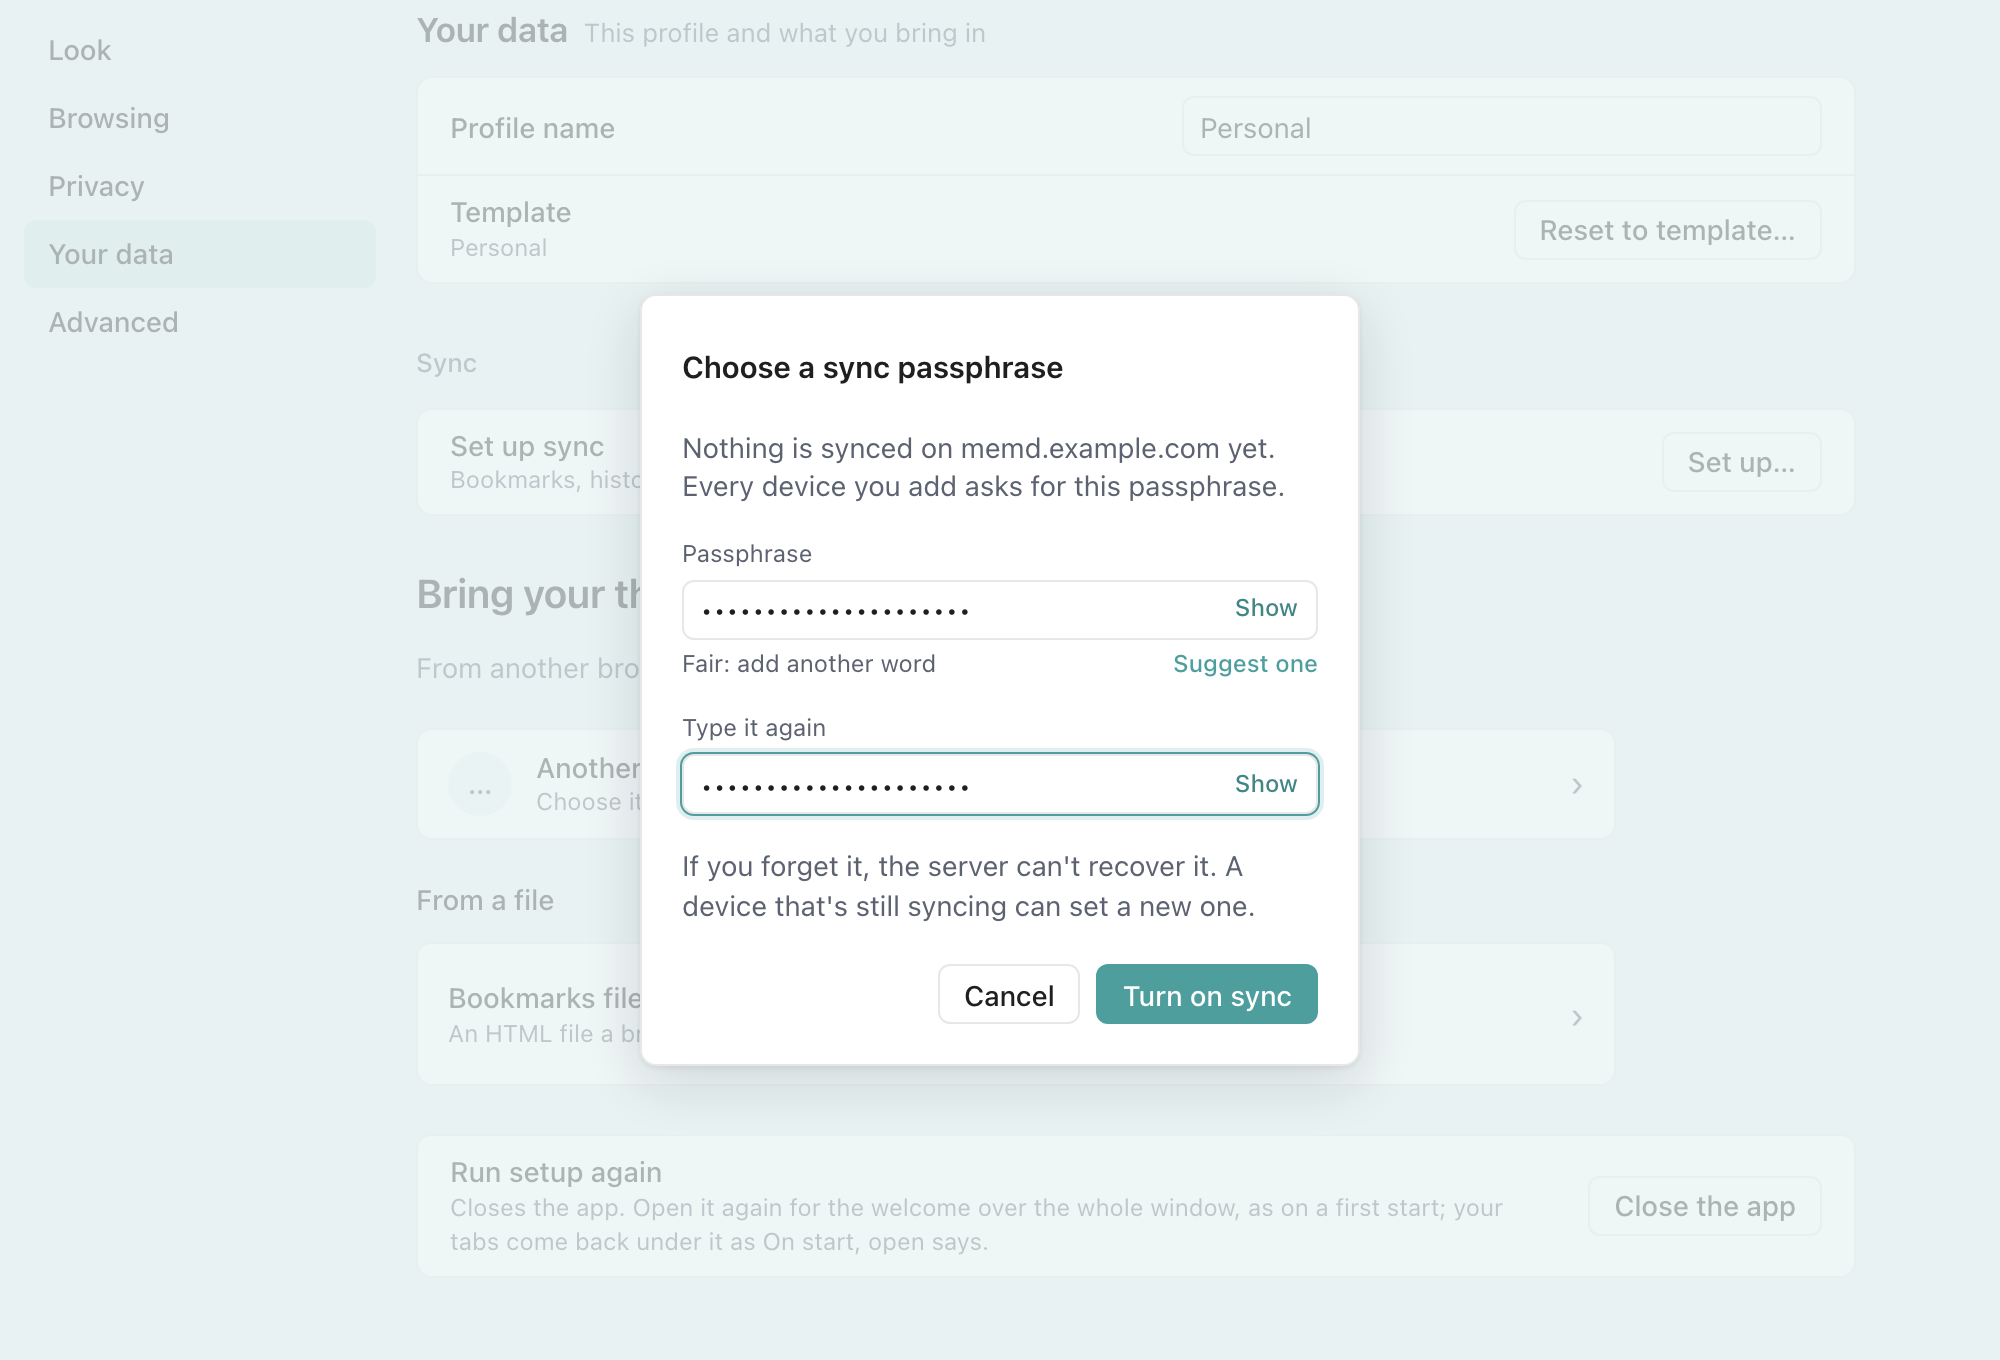
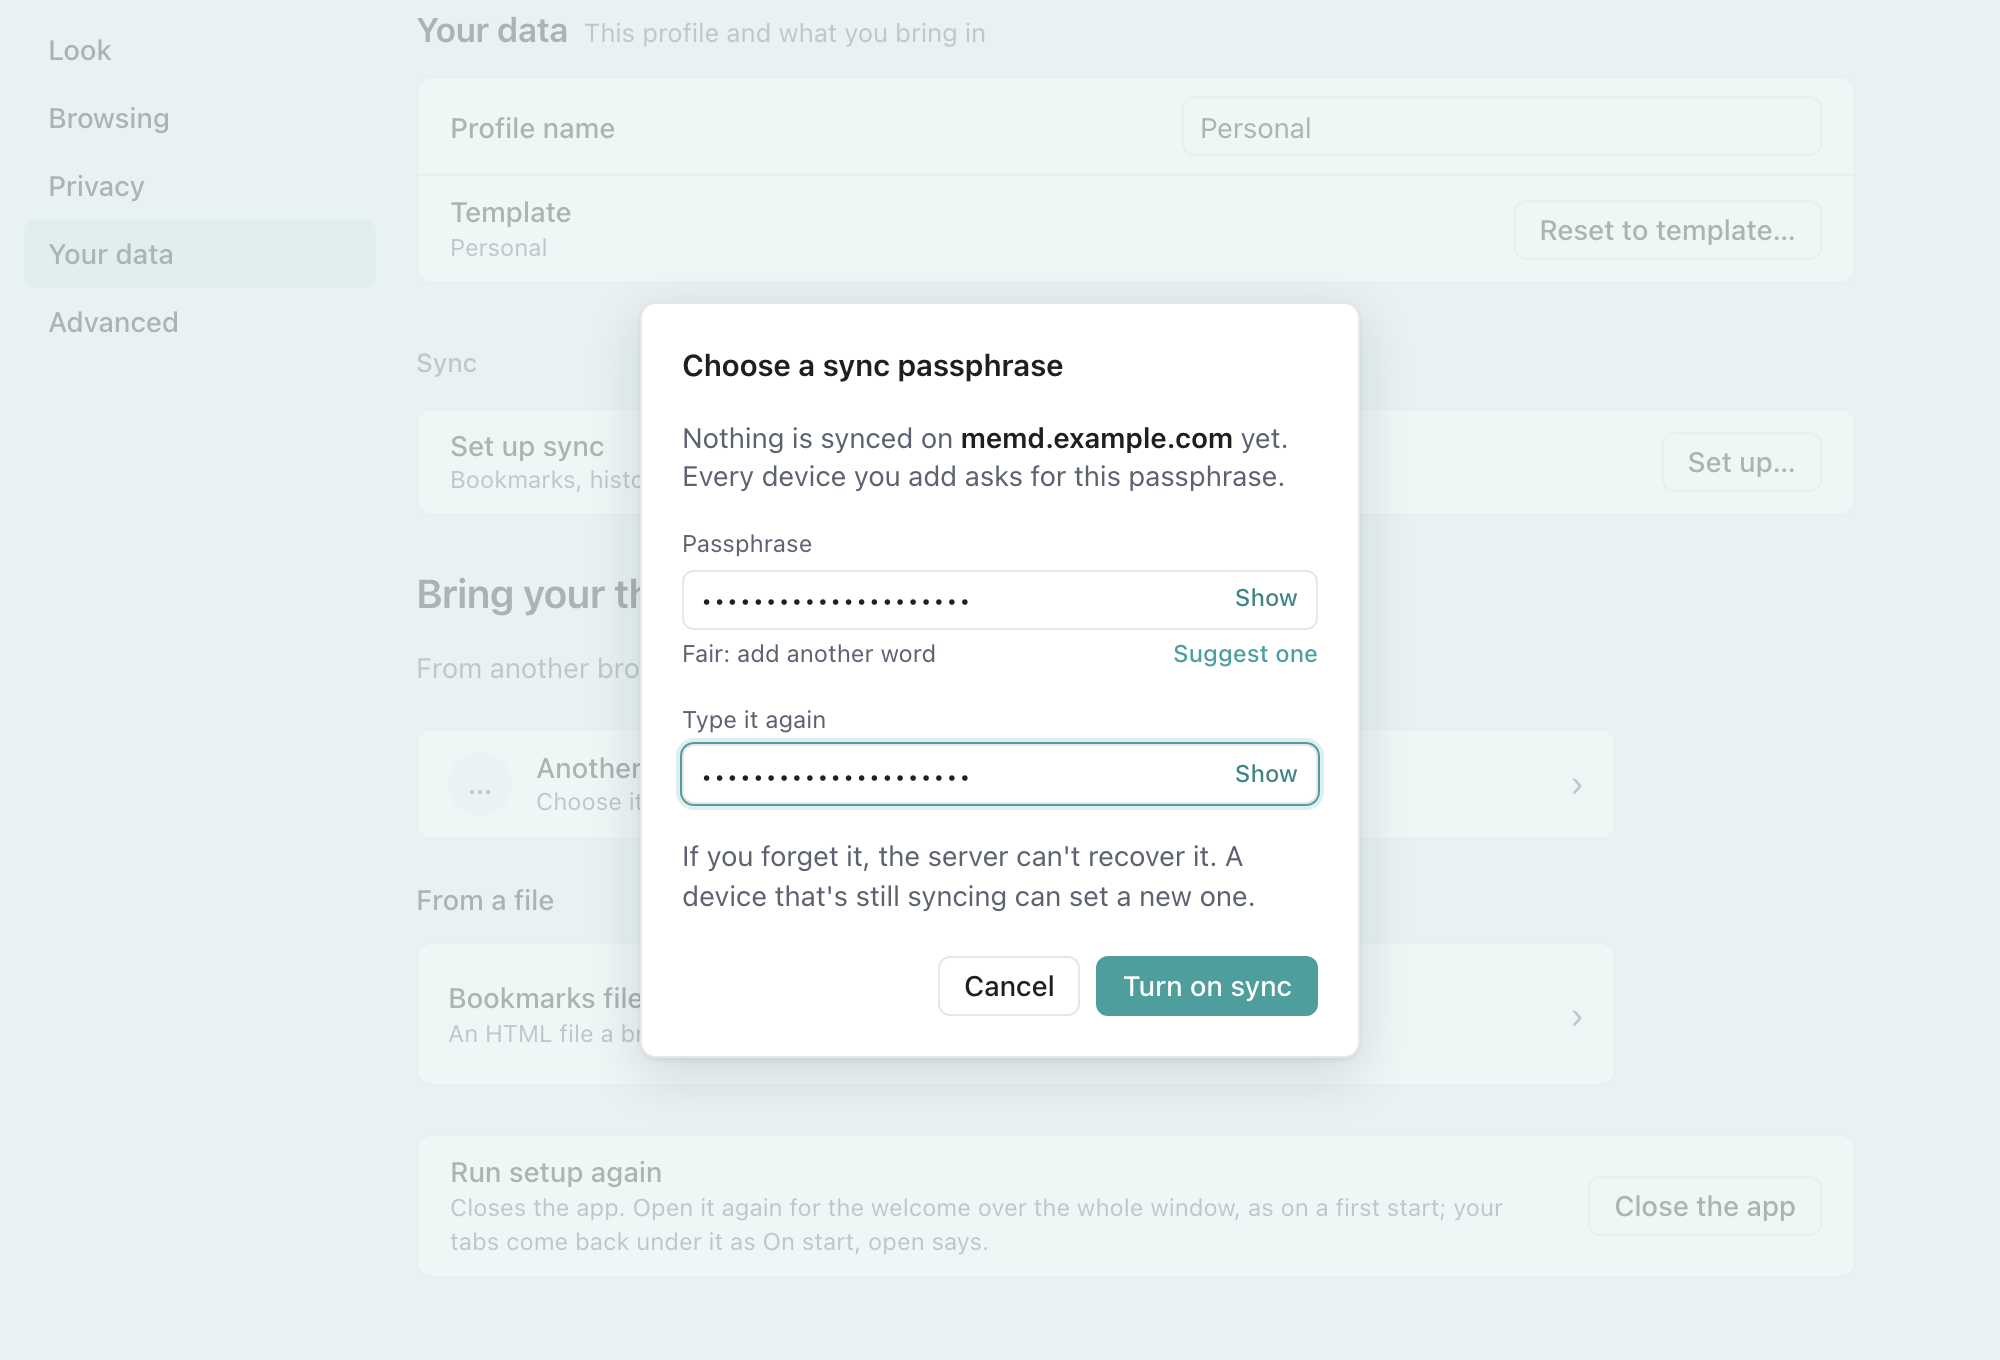
A Dialog keeps its title and buttons in sight when it has little room, as over a phone's keyboard, and only its body scrolls between them: on Android 17 the keyboard hid the sync passphrase's Turn on sync. The sync Dialog names its server's host in bold in its words, as its title does

diff --git a/shell/src/ui/Dialog.vue b/shell/src/ui/Dialog.vue
@@ -5,7 +5,8 @@ import { pushEscape } from './escape.js';
 // A modal dialog, the one pattern for every question: 360px, a 15px title, the body, and
 // the buttons at the bottom right, which the caller puts in the buttons slot. A title with
 // a word set apart, a host in bold, is drawn in the title slot, title still naming the
-// dialog. Mount it with v-if to open it. Escape and the backdrop's own cancel emit close; when it goes,
+// dialog. The title and the buttons stay put, and the body scrolls between them when the
+// dialog is taller than its room, as over a phone's keyboard. Mount it with v-if to open it. Escape and the backdrop's own cancel emit close; when it goes,
 // focus goes back to what had it before it opened.
 defineProps({ title: String });
 const emit = defineEmits(['close']);
@@ -28,7 +29,7 @@ onUnmounted(() => {
 <template>
   <dialog ref="dialog" class="ui-dialog" :aria-label="title" @cancel.prevent="emit('close')">
     <h2 class="ui-dialog-title"><slot name="title">{{ title }}</slot></h2>
-    <slot />
+    <div class="ui-dialog-body"><slot /></div>
     <div class="ui-dialog-buttons"><slot name="buttons" /></div>
   </dialog>
 </template>
@@ -51,6 +52,26 @@ onUnmounted(() => {
   background: color-mix(in srgb, var(--bar) 70%, transparent);
 }
 
+/* Only the body scrolls: the title above it and the buttons under it stay in sight. */
+dialog.ui-dialog[open] {
+  display: flex;
+  flex-direction: column;
+  overflow: hidden;
+}
+
+.ui-dialog-title,
+.ui-dialog-buttons {
+  flex: none;
+}
+
+/* Wider and taller than what it holds, so a field's focus ring isn't cut. */
+.ui-dialog-body {
+  min-height: 0;
+  margin: -4px -20px;
+  padding: 4px 20px;
+  overflow-y: auto;
+}
+
 .ui-dialog-title {
   margin: 0 0 16px;
   color: var(--text);
@@ -62,6 +83,12 @@ onUnmounted(() => {
 .ui-dialog p {
   margin: 0;
   color: var(--muted);
+}
+
+/* A site or a server in a dialog's words: its host, read first. */
+.ui-dialog-body p b {
+  color: var(--text);
+  font-weight: 600;
 }
 
 /* A field in a dialog: its label above it, 12px and muted. A swatch, a choice to bring

diff --git a/shell/src/apps/settings/Sync.vue b/shell/src/apps/settings/Sync.vue
@@ -482,8 +482,8 @@ const connectingNow = computed(() => d.busy && d.step === 'address');
 
       <template v-else-if="d.step === 'choose' || d.step === 'change' || d.step === 'enter'">
         <div class="ui-dialog-part">
-          <p v-if="d.step === 'choose'">Nothing is synced on {{ d.host }} yet. Every device you add asks for this passphrase.</p>
-          <p v-else-if="d.step === 'enter'">{{ d.host }} already has synced data. Type the passphrase you chose for it.</p>
+          <p v-if="d.step === 'choose'">Nothing is synced on <b>{{ d.host }}</b> yet. Every device you add asks for this passphrase.</p>
+          <p v-else-if="d.step === 'enter'"><b>{{ d.host }}</b> already has synced data. Type the passphrase you chose for it.</p>
           <p v-else>Devices that sync now keep syncing. A device you add asks for the new one.</p>
         </div>
         <div class="ui-dialog-part">
@@ -538,7 +538,7 @@ const connectingNow = computed(() => d.busy && d.step === 'address');
       </template>
 
       <div v-else-if="d.step === 'turnOff'" class="ui-dialog-part">
-        <p>Bookmarks, history and typed addresses stay here and on {{ s.host }}. To sync again, you'll need the sync passphrase.</p>
+        <p>Bookmarks, history and typed addresses stay here and on <b>{{ s.host }}</b>. To sync again, you'll need the sync passphrase.</p>
       </div>
 
       <template #buttons>
